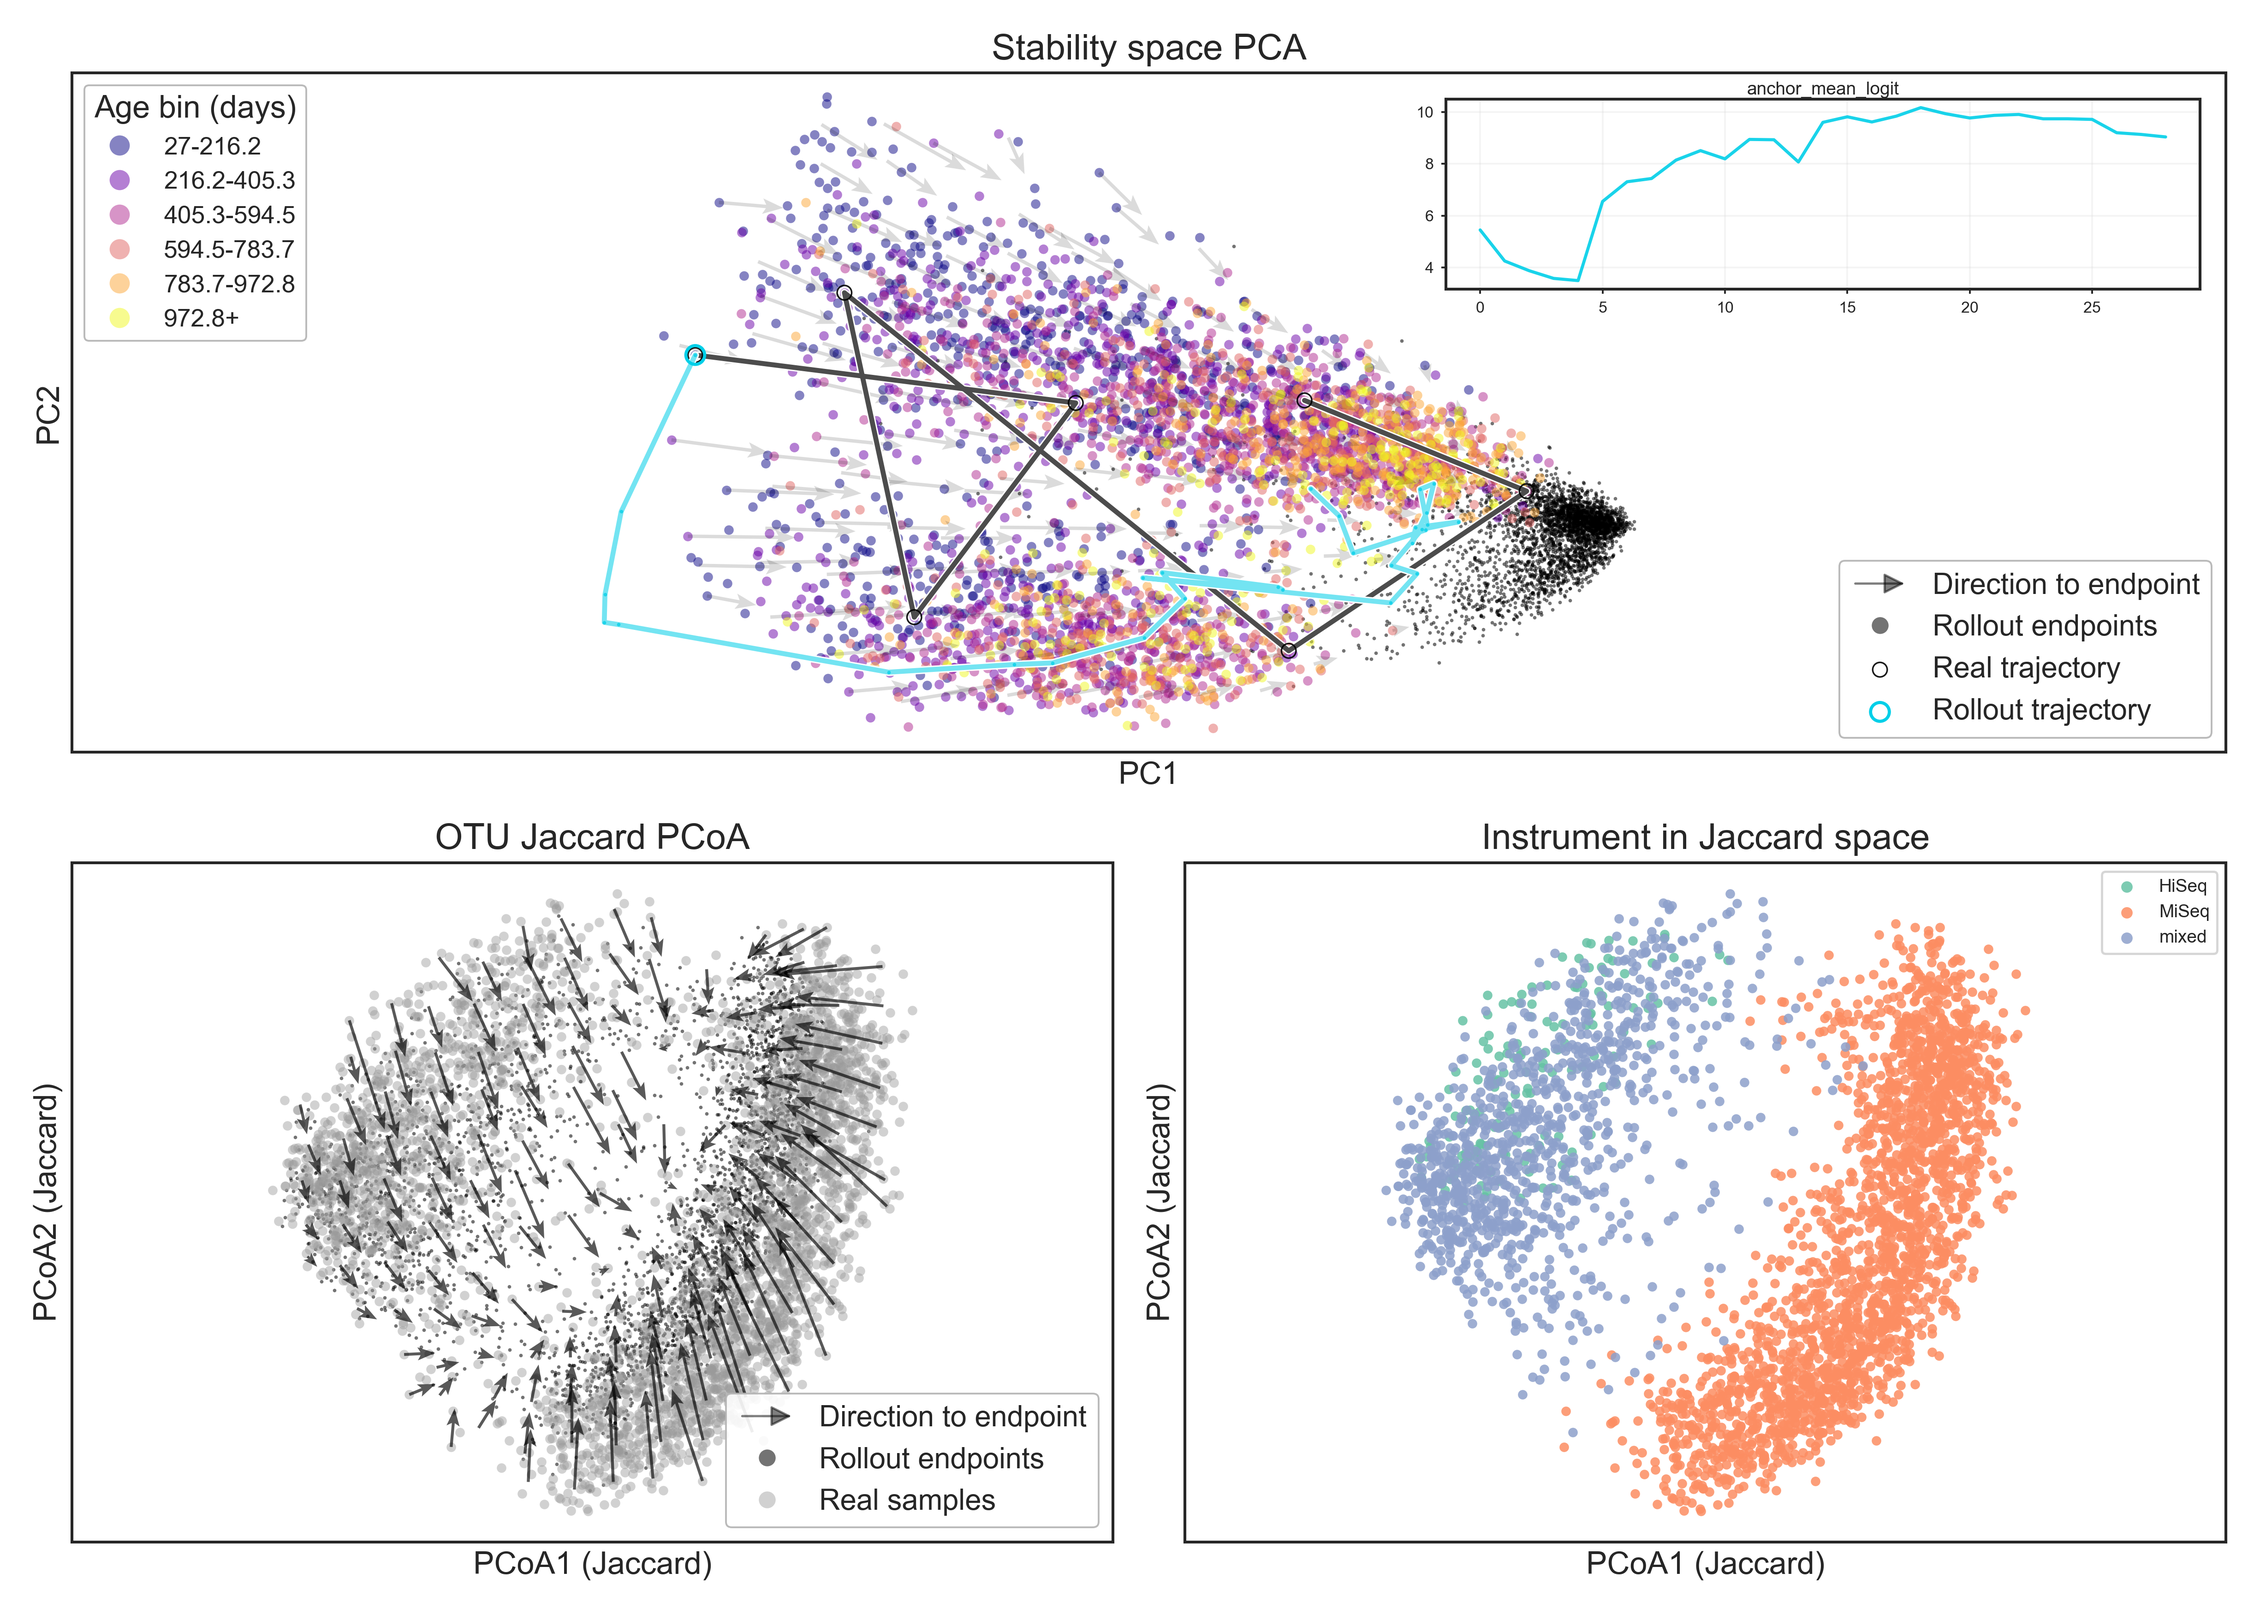
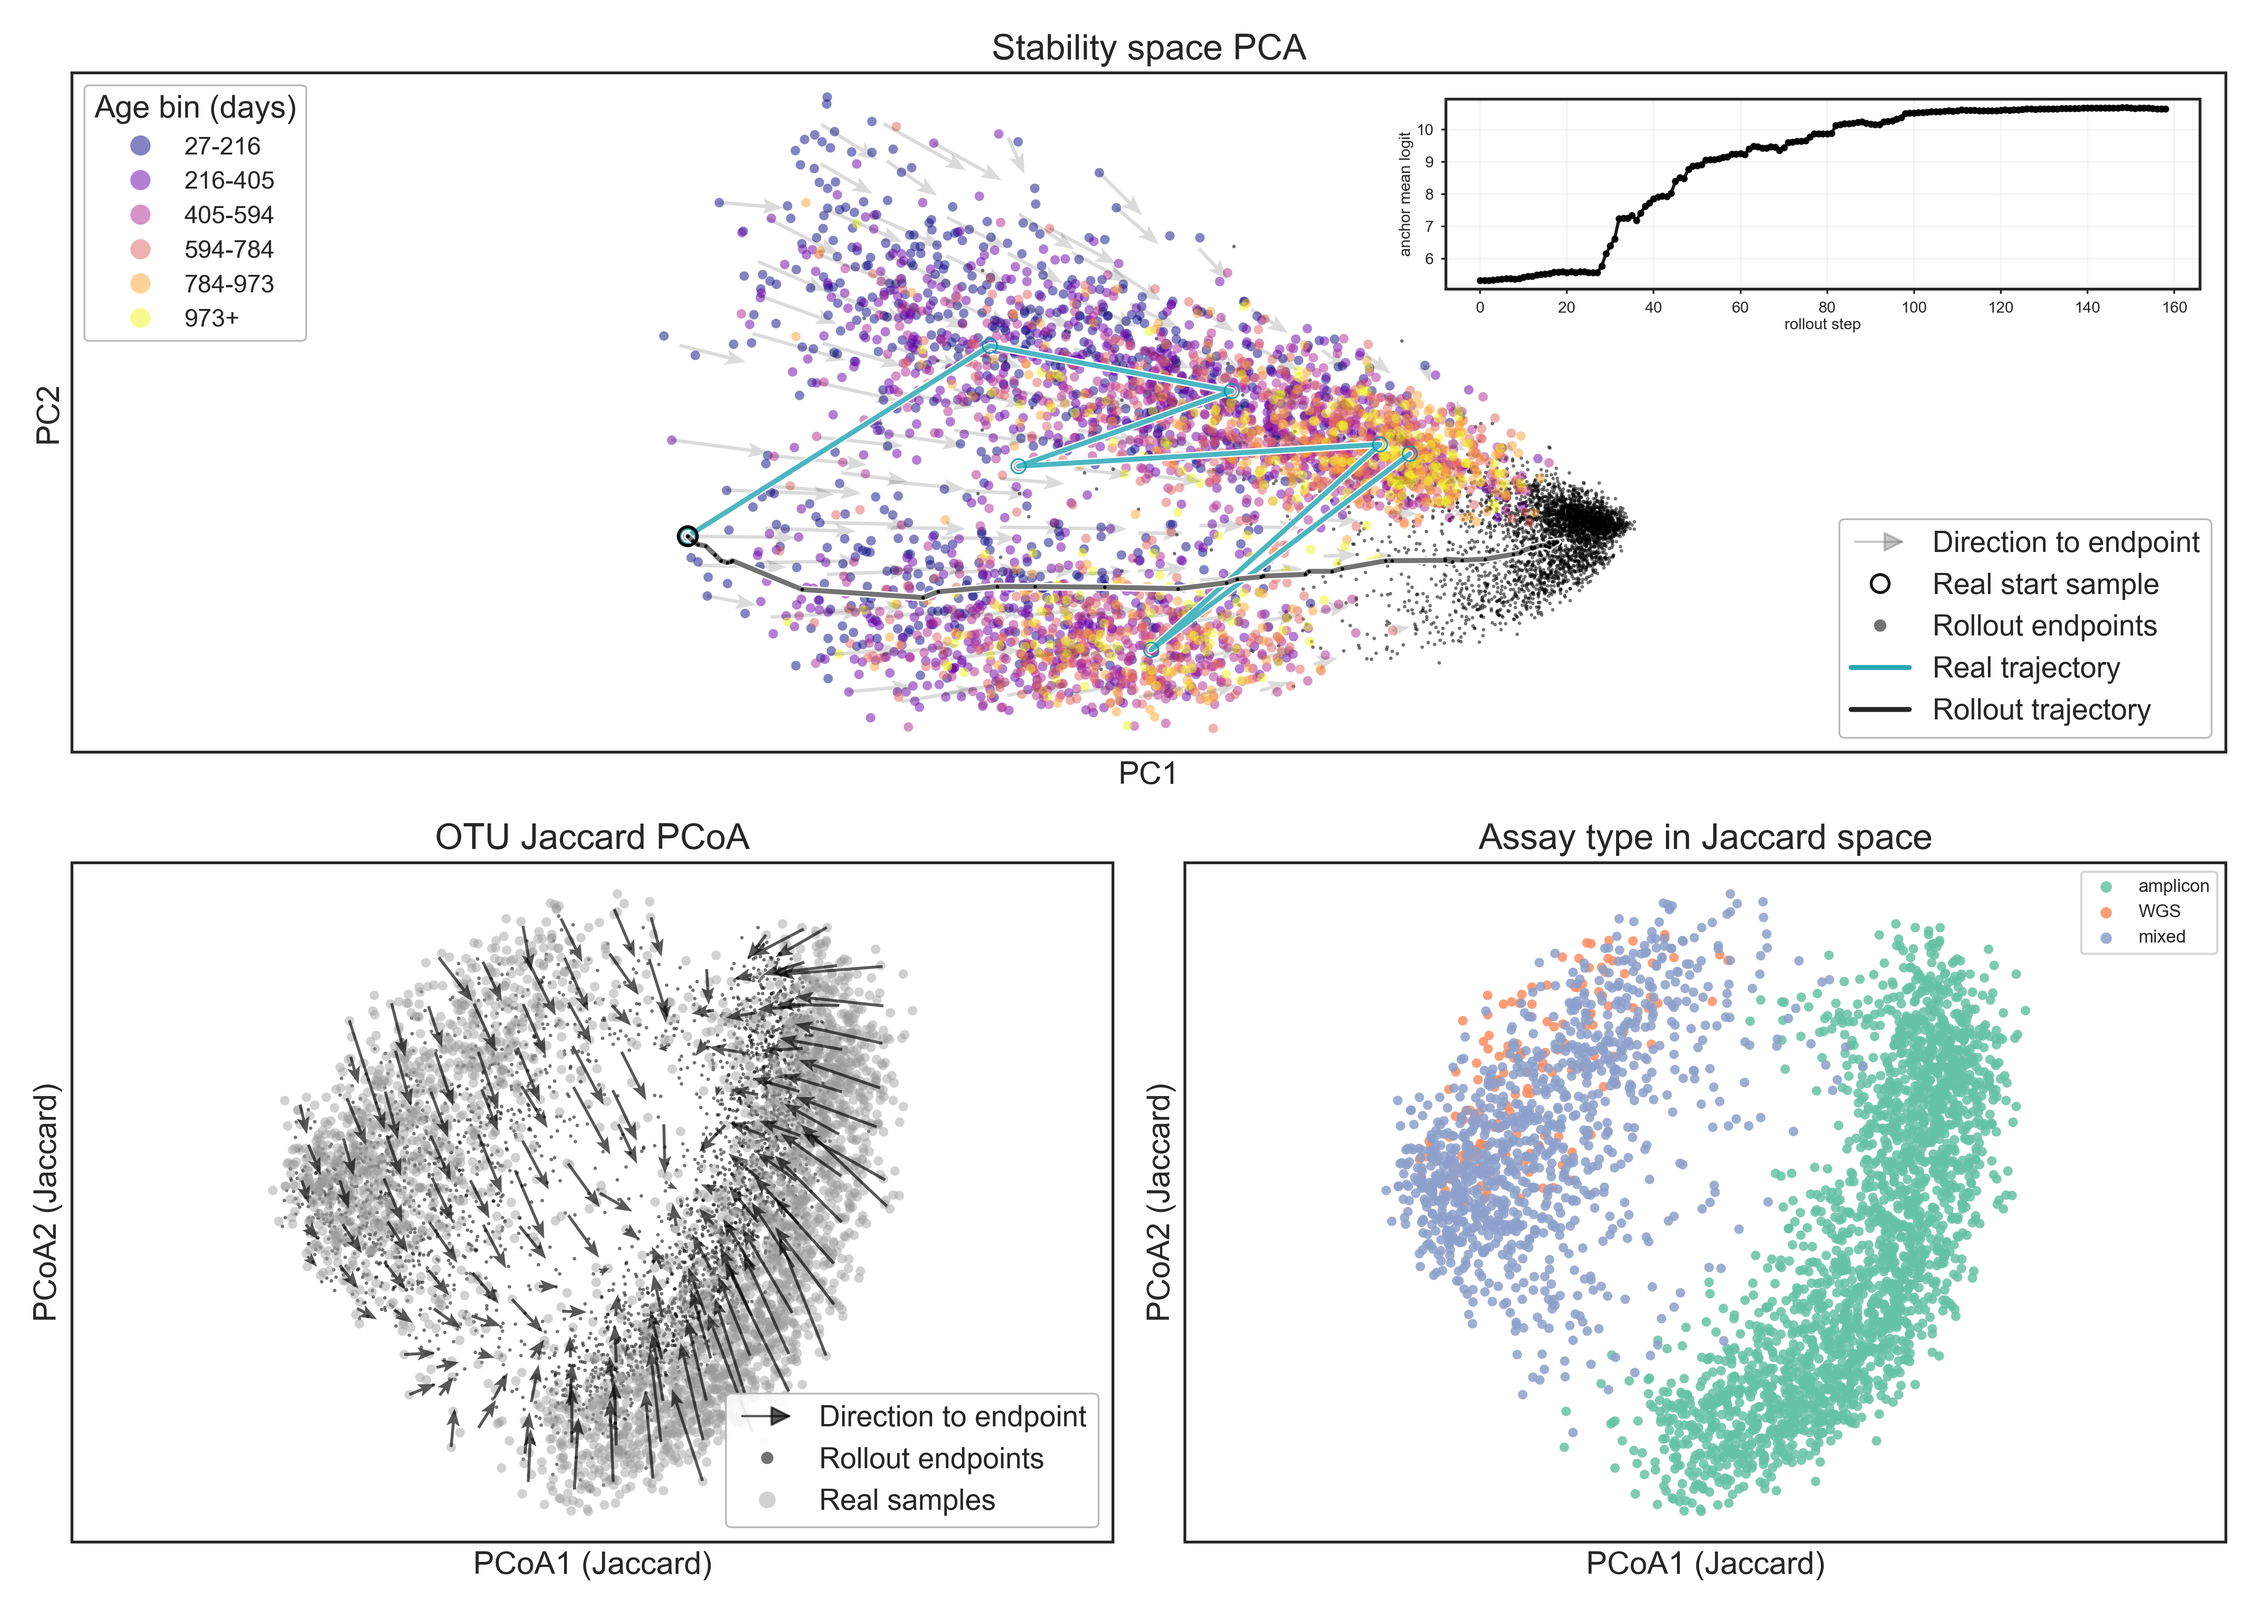
plotting updates

diff --git a/scripts/diabimmune/plot_diabimmune_trajectory_overlay.py b/scripts/diabimmune/plot_diabimmune_trajectory_overlay.py
@@ -46,6 +46,7 @@ AGE_BIN_LEGEND_FONT_SIZE = 8
 REAL_TRAJ_LINEWIDTH = 0.5
 ROLLOUT_TRAJ_LINEWIDTH = 0.5
 TRAJ_STROKE_LINEWIDTH = 2.0
+REAL_TRAJ_COLOR = "#0097a7"
 ROLLOUT_TRAJ_COLOR = "#00cfe8"
 PCA_REAL_POINTS_ALPHA = 0.75
 PCA_ARROW_MERGE_BINS = 0
@@ -340,13 +341,14 @@ def pick_example_with_movement(tsv_path, valid_keys=None):
 
 def _diabimmune_age_bin_label(age_days):
     edges = [27.0, 216.2, 405.3, 594.5, 783.7, 972.8]
+    edges_i = [int(round(x)) for x in edges]
     if age_days < edges[0]:
-        return f"<{edges[0]:g}"
-    for i in range(len(edges) - 1):
-        lo, hi = edges[i], edges[i + 1]
+        return f"<{edges_i[0]}"
+    for i in range(len(edges_i) - 1):
+        lo, hi = edges_i[i], edges_i[i + 1]
         if lo <= age_days < hi:
-            return f"{lo:g}-{hi:g}"
-    return f"{edges[-1]:g}+"
+            return f"{lo}-{hi}"
+    return f"{edges_i[-1]}+"
 
 
 def _age_key_to_bin_label(age_key):
@@ -398,20 +400,20 @@ def _load_sra_run_table_rows(paths):
     return out
 
 
-def _instrument_category(raw):
+def _assay_category(raw):
     s = str(raw or "").strip().lower()
     if not s:
         return ""
-    if "hiseq" in s:
-        return "HiSeq"
-    if "miseq" in s:
-        return "MiSeq"
+    if "amplicon" in s:
+        return "amplicon"
+    if "wgs" in s:
+        return "WGS"
     return "Other"
 
 
-def _instrument_by_subject_age(samples_csv):
+def _assay_by_subject_age(samples_csv):
     """
-    Return dict[(subjectID, age_key)] -> instrument category in {HiSeq, MiSeq, Other, mixed, ''}.
+    Return dict[(subjectID, age_key)] -> assay category in {WGS, amplicon, Other, mixed, ''}.
     """
     # sampleID -> age_key
     sample_to_age = {}
@@ -454,7 +456,7 @@ def _instrument_by_subject_age(samples_csv):
         cats = []
         for rid in srs_to_runs.get(str(srs), []):
             row = run_meta.get(str(rid), {})
-            cat = _instrument_category(row.get("Instrument", ""))
+            cat = _assay_category(row.get("Assay Type", ""))
             if cat:
                 cats.append(cat)
         if not cats:
@@ -941,7 +943,7 @@ def main():
     (real_line,) = ax1.plot(
         real_traj_xy[:, 0],
         real_traj_xy[:, 1],
-        color="black",
+        color=REAL_TRAJ_COLOR,
         alpha=0.70,
         linewidth=REAL_TRAJ_LINEWIDTH,
         zorder=4,
@@ -952,7 +954,7 @@ def main():
         real_traj_xy[:, 1],
         s=42,
         facecolors="none",
-        edgecolors="black",
+        edgecolors=REAL_TRAJ_COLOR,
         alpha=0.9,
         linewidths=0.7,
         zorder=5,
@@ -985,7 +987,7 @@ def main():
         s=10,
         marker=".",
         color=ROLLOUT_TRAJ_COLOR,
-        alpha=0.75,
+        alpha=0.95,
         linewidths=0,
         zorder=6,
         label="_nolegend_",
@@ -999,12 +1001,14 @@ def main():
     if anchor_mean_logit is not None and len(anchor_mean_logit) == len(steps):
         ax_in = inset_axes(ax1, width="35%", height="28%", loc="upper right", borderpad=0.9)
         ax_in.plot(steps, anchor_mean_logit, color=ROLLOUT_TRAJ_COLOR, linewidth=1.4, alpha=0.9)
-        ax_in.set_title("anchor_mean_logit", fontsize=8, pad=2)
+        ax_in.scatter(steps, anchor_mean_logit, s=10, color=ROLLOUT_TRAJ_COLOR, alpha=0.95, linewidths=0)
+        ax_in.set_xlabel("rollout step", fontsize=7, labelpad=1)
+        ax_in.set_ylabel("anchor mean logit", fontsize=7, labelpad=1)
         ax_in.tick_params(axis="both", labelsize=7, length=2)
         ax_in.grid(True, alpha=0.2)
         ax_in.set_facecolor("white")
 
-    class _HandlerArrow(HandlerPatch):
+    class _HandlerArrowTop(HandlerPatch):
         def create_artists(self, legend, orig_handle, xdescent, ydescent, width, height, fontsize, trans):
             p = FancyArrowPatch(
                 (xdescent, ydescent + 0.5 * height),
@@ -1012,13 +1016,38 @@ def main():
                 arrowstyle="-|>",
                 mutation_scale=fontsize * 1.5,
                 linewidth=1.0,
-                color="black",
-                alpha=0.5,
+                color="#5f5f5f",
+                alpha=0.35,
+            )
+            p.set_transform(trans)
+            return [p]
+
+    class _HandlerArrowBottom(HandlerPatch):
+        def create_artists(self, legend, orig_handle, xdescent, ydescent, width, height, fontsize, trans):
+            p = FancyArrowPatch(
+                (xdescent, ydescent + 0.5 * height),
+                (xdescent + width, ydescent + 0.5 * height),
+                arrowstyle="-|>",
+                mutation_scale=fontsize * 1.5,
+                linewidth=1.0,
+                color=JACCARD_ARROW_COLOR,
+                alpha=max(0.6, float(JACCARD_ARROW_ALPHA)),
             )
             p.set_transform(trans)
             return [p]
 
     arrow_handle = FancyArrowPatch((0, 0), (1, 0), arrowstyle="-|>", label="Direction to endpoint")
+    real_start_handle = Line2D(
+        [0],
+        [0],
+        marker="o",
+        linestyle="None",
+        markerfacecolor="none",
+        markeredgecolor="#111111",
+        markeredgewidth=1.3,
+        markersize=8.0,
+        label="Real start sample",
+    )
     handles, labels = ax1.get_legend_handles_labels()
     top_handles = []
     top_labels = []
@@ -1034,7 +1063,31 @@ def main():
                     markeredgecolor=JACCARD_ENDPOINT_COLOR,
                     markeredgewidth=0.0,
                     alpha=JACCARD_ENDPOINT_ALPHA,
-                    markersize=7.5,
+                    markersize=5.5,
+                    label=l,
+                )
+            )
+        elif l == "Real trajectory":
+            top_handles.append(
+                Line2D(
+                    [0],
+                    [0],
+                    linestyle="-",
+                    color=REAL_TRAJ_COLOR,
+                    alpha=0.85,
+                    linewidth=REAL_TRAJ_LINEWIDTH,
+                    label=l,
+                )
+            )
+        elif l == "Rollout trajectory":
+            top_handles.append(
+                Line2D(
+                    [0],
+                    [0],
+                    linestyle="-",
+                    color=ROLLOUT_TRAJ_COLOR,
+                    alpha=0.85,
+                    linewidth=ROLLOUT_TRAJ_LINEWIDTH,
                     label=l,
                 )
             )
@@ -1042,14 +1095,14 @@ def main():
             top_handles.append(h)
         top_labels.append(l)
 
-    handles = [arrow_handle] + top_handles
-    labels = ["Direction to endpoint"] + top_labels
+    handles = [arrow_handle, real_start_handle] + top_handles
+    labels = ["Direction to endpoint", "Real start sample"] + top_labels
     traj_legend = ax1.legend(
         handles=handles,
         labels=labels,
         frameon=True,
         loc="lower right",
-        handler_map={FancyArrowPatch: _HandlerArrow()},
+        handler_map={FancyArrowPatch: _HandlerArrowTop()},
     )
     traj_legend.get_frame().set_edgecolor("0.7")
     traj_legend.get_frame().set_linewidth(0.8)
@@ -1182,7 +1235,7 @@ def main():
                     markeredgecolor=JACCARD_ENDPOINT_COLOR,
                     markeredgewidth=0.0,
                     alpha=JACCARD_ENDPOINT_ALPHA,
-                    markersize=7.5,
+                    markersize=5.5,
                     label=l,
                 )
             )
@@ -1216,15 +1269,15 @@ def main():
         labels=labels2,
         frameon=True,
         loc="lower right",
-        handler_map={FancyArrowPatch: _HandlerArrow()},
+        handler_map={FancyArrowPatch: _HandlerArrowBottom()},
     )
     leg2.get_frame().set_edgecolor("0.7")
     leg2.get_frame().set_linewidth(0.8)
     leg2.get_frame().set_facecolor("white")
     leg2.get_frame().set_alpha(0.9)
 
-    # Instrument panel in the same Jaccard coordinates.
-    inst_by_key = _instrument_by_subject_age(args.samples_csv)
+    # Assay-type panel in the same Jaccard coordinates.
+    inst_by_key = _assay_by_subject_age(args.samples_csv)
     real_cache = np.load(REAL_NPZ, allow_pickle=True)
     keys_raw = real_cache["keys"]
     real_keys = [(str(keys_raw[i][0]), str(keys_raw[i][1])) for i in range(len(keys_raw))]
@@ -1243,7 +1296,7 @@ def main():
             label="Rollout endpoints",
         )
 
-    order = ["HiSeq", "MiSeq", "mixed", "Other"]
+    order = ["amplicon", "WGS", "mixed", "Other"]
     uniq = [c for c in order if c in set(inst_labels.tolist())]
     cmap = plt.cm.Set2
     color_by = {c: cmap(i % cmap.N) for i, c in enumerate(uniq)}
@@ -1262,7 +1315,7 @@ def main():
                 label=c,
             )
 
-    # Unknown instrument
+    # Unknown assay type
     m_unk = inst_labels == ""
     if np.any(m_unk):
         ax3.scatter(
@@ -1280,7 +1333,7 @@ def main():
     ax3.set_xlabel("PCoA1 (Jaccard)")
     ax3.set_ylabel("PCoA2 (Jaccard)")
     ax3.set_aspect("equal", adjustable="datalim")
-    ax3.set_title("Instrument in Jaccard space")
+    ax3.set_title("Assay type in Jaccard space")
     ax3.legend(frameon=True, loc="best", markerscale=1.2, fontsize=8)
 
     if HIDE_XY_TICK_LABELS:

diff --git a/scripts/rollout/plot_diabimmune_oneoutoneinanchored_trajectory_overlay.py b/scripts/rollout/plot_diabimmune_oneoutoneinanchored_trajectory_overlay.py
@@ -26,6 +26,8 @@ OUT_PNG = os.path.join(OUT_DIR, "diabimmune_rollout_trajectory_overlay_oneoutone
 REAL_NPZ = os.path.join("data", "diabimmune", "diabimmune_real_embeddings_cache_oneoutoneinanchored.npz")
 ENDPOINTS_NPZ = os.path.join("data", "diabimmune", "diabimmune_rollout_endpoints_cache_oneoutoneinanchored.npz")
 CACHE_NPZ = os.path.join("data", "diabimmune", "diabimmune_rollout_trajectory_overlay_cache_oneoutoneinanchored.npz")
+DEFAULT_SUBJECT = "P014713"
+DEFAULT_T_START = "235"
 
 SAMPLES_CSV = os.path.join("data", "diabimmune", "samples.csv")
 
@@ -231,6 +233,8 @@ def main():
     base.FONT_SIZE = 14
     base.HIDE_XY_TICK_LABELS = True
     base.AGE_BIN_LEGEND_FONT_SIZE = 11
+    base.REAL_TRAJ_COLOR = "#0097a7"
+    base.ROLLOUT_TRAJ_COLOR = "black"
     base.PCA_REAL_POINTS_ALPHA = 0.5
     base.REAL_TRAJ_LINEWIDTH = 2.2
     base.ROLLOUT_TRAJ_LINEWIDTH = 2.2
@@ -253,6 +257,18 @@ def main():
     base.JACCARD_ARROW_HEADLENGTH = 6.0
     base.JACCARD_ARROW_HEADAXISLENGTH = 5.0
     base.SHOW_INSTRUMENT_PANEL_ENDPOINTS = False
+
+    # Default auto-picked example to the requested high-travel pair.
+    # CLI --subject/--t-start still override this via base parser.
+    _orig_pick = base.pick_example_with_movement
+
+    def _pick_default_with_fallback(tsv_path, valid_keys=None):
+        key = (DEFAULT_SUBJECT, DEFAULT_T_START)
+        if valid_keys is None or key in valid_keys:
+            return key
+        return _orig_pick(tsv_path, valid_keys=valid_keys)
+
+    base.pick_example_with_movement = _pick_default_with_fallback
     base.main()
 
 
